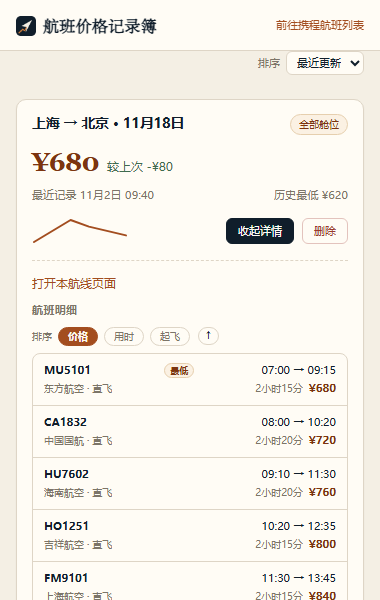
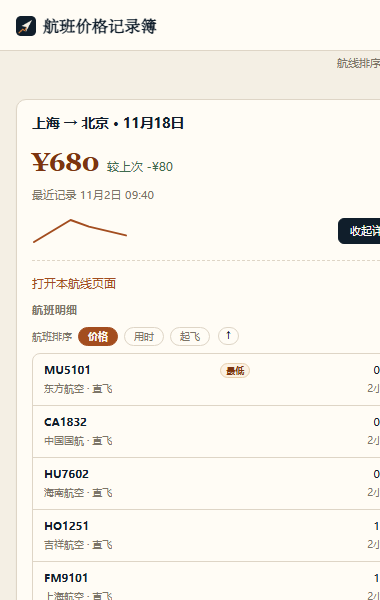
fix(popup): 适配侧边栏宽度并区分排序
- 弹窗宽度与高度响应式，窄侧边栏下标题栏按需换行
- 航线排序与航班排序分开标注，最低价改为当前最低价
- 只有一条航线时隐藏航线排序
- 版本升到 1.0.3

diff --git a/src/popup/popup.js b/src/popup/popup.js
@@ -14,7 +14,7 @@
   ];
   var ROUTE_SORT_MODES = [
     { key: "updated", label: "最近更新" },
-    { key: "price", label: "最低价" },
+    { key: "price", label: "当前最低价" },
     { key: "date", label: "出发日期" },
   ];
   var EMPTY_TEXT = "打开携程航班列表页后，这里会自动出现价格记录";
@@ -180,7 +180,7 @@
 
   function buildRouteToolbar() {
     var bar = el("div", "route-toolbar");
-    bar.appendChild(el("span", "route-toolbar-label", "排序"));
+    bar.appendChild(el("span", "route-toolbar-label", "航线排序"));
 
     var select = el("select", "route-sort-select");
     select.setAttribute("aria-label", "航线排序");
@@ -482,7 +482,7 @@
 
     if (allFlights.length > 1) {
       var sortBar = el("div", "flight-sort");
-      sortBar.appendChild(el("span", "flight-sort-label", "排序"));
+      sortBar.appendChild(el("span", "flight-sort-label", "航班排序"));
       SORT_MODES.forEach(function (mode) {
         var button = el("button", "sort-button", mode.label);
         button.type = "button";
@@ -777,7 +777,10 @@
     if (entries.length === 0) {
       app.appendChild(buildEmptyView());
     } else {
-      app.appendChild(buildRouteToolbar());
+      // 只有一条航线时排序没有意义，不占用顶部空间。
+      if (entries.length > 1) {
+        app.appendChild(buildRouteToolbar());
+      }
 
       var list = el("main", "route-list");
       entries.forEach(function (entry, index) {

diff --git a/src/popup/popup.css b/src/popup/popup.css
@@ -31,6 +31,7 @@ body {
 
 body {
   width: 380px;
+  max-width: 100vw;
   font-family: "Microsoft YaHei UI", "Microsoft YaHei", "PingFang SC", sans-serif;
   font-size: 13px;
   line-height: 1.5;
@@ -42,7 +43,7 @@ body {
 #app {
   display: flex;
   flex-direction: column;
-  max-height: 600px;
+  max-height: min(600px, 100vh);
   overflow-y: auto;
   scrollbar-width: thin;
   scrollbar-color: #c9b79f var(--bg);
@@ -633,4 +634,64 @@ body {
 .ctrip-link:focus-visible {
   outline: 2px solid var(--accent);
   outline-offset: 2px;
+}
+
+@media (max-width: 379px) {
+  body {
+    width: 100vw;
+  }
+
+  #app {
+    max-height: 100vh;
+  }
+
+  .popup-header {
+    padding: 12px 12px 10px;
+  }
+
+  .popup-title {
+    gap: 6px;
+    font-size: 15px;
+  }
+
+  .popup-title::before {
+    width: 18px;
+    height: 18px;
+  }
+
+  .header-link {
+    font-size: 10px;
+  }
+
+  .route-list {
+    padding: 12px 12px 16px;
+  }
+
+  .route-toolbar,
+  .settings-row,
+  .data-actions,
+  .bottom-actions {
+    padding-left: 12px;
+    padding-right: 12px;
+  }
+
+  .flight-row {
+    padding: 8px 9px;
+  }
+
+  .card-actions,
+  .flight-sort {
+    flex-wrap: wrap;
+  }
+}
+
+@media (max-width: 340px) {
+  .popup-header {
+    flex-wrap: wrap;
+    row-gap: 4px;
+  }
+
+  .header-link {
+    margin-left: auto;
+  }
 }

diff --git a/store/popup-preview.html b/store/popup-preview.html
@@ -5,7 +5,7 @@
 <title>弹窗预览</title>
 <link rel="stylesheet" href="../src/popup/popup.css">
 <style>
-  html, body { width: 380px; height: 600px; overflow: hidden; }
+  html, body { width: 100vw; height: 100vh; overflow: hidden; }
   #app { scrollbar-width: none; }
   #app::-webkit-scrollbar { display: none; }
 </style>

diff --git a/docs/store-listing.md b/docs/store-listing.md
@@ -6,13 +6,13 @@
 | --- | --- |
 | 扩展名称 | 航班价格记录簿 |
 | 英文名 | Flight Price Log |
-| 版本 | 1.0.2 |
+| 版本 | 1.0.3 |
 | 分类 | 效率 / Productivity（商店有「旅行」分类时也可选旅行） |
 | 语言 | 简体中文 |
 | 网站 | https://github.com/akinixy/flight-price-log |
 | 支持 | https://github.com/akinixy/flight-price-log/issues |
 | 隐私政策 | https://akinixy.github.io/flight-price-log/privacy-policy.html |
-| 商店包 | `dist/flight-price-log-1.0.2.zip` |
+| 商店包 | `dist/flight-price-log-1.0.3.zip` |
 
 ## 简介（不超过 132 字符）
 
@@ -64,7 +64,7 @@
 ### Microsoft Edge Add-ons
 
 1. 用 Microsoft 账号登录 Partner Center，进入 Microsoft Edge 计划。
-2. 新建扩展，上传 `dist/flight-price-log-1.0.2.zip`。
+2. 新建扩展，上传 `dist/flight-price-log-1.0.3.zip`。
 3. 填写名称、简介、详细描述、分类、语言、支持链接和隐私政策链接。
 4. 上传 300 × 300 Logo 和 1280 × 800 截图。
 5. 提交审核，通常最多 7 个工作日。

diff --git a/CHANGELOG.md b/CHANGELOG.md
@@ -1,5 +1,16 @@
 # 更新记录
 
+## 1.0.3 — 2026-11-04
+
+侧边栏与排序体验修复。
+
+### 变更
+
+- 弹窗适配窄侧边栏：宽度跟随视口，窄屏高度使用 100vh，标题栏按需换行。
+- 航线排序与航班排序分别标注，避免两个「排序」混淆。
+- 「最低价」改为「当前最低价」，与卡片里的「历史最低」区分。
+- 只有一条航线时隐藏航线排序，减少无效控件。
+
 ## 1.0.2 — 2026-11-02
 
 商店素材与品牌视觉更新。

diff --git a/README.md b/README.md
@@ -1,6 +1,6 @@
 # 航班价格记录簿
 
-> 版本：1.0.2 · 更新记录见 [CHANGELOG.md](CHANGELOG.md)
+> 版本：1.0.3 · 更新记录见 [CHANGELOG.md](CHANGELOG.md)
 
 一个 Microsoft Edge（Manifest V3）扩展。浏览携程中国大陆国内单程航班列表页时，自动把该航线、日期、舱位的最低价记录在本机；打开弹窗即可查看当前价格、历史最低价、价格趋势和最近一次航班明细。本扩展为非官方工具，与携程无关联。
 
